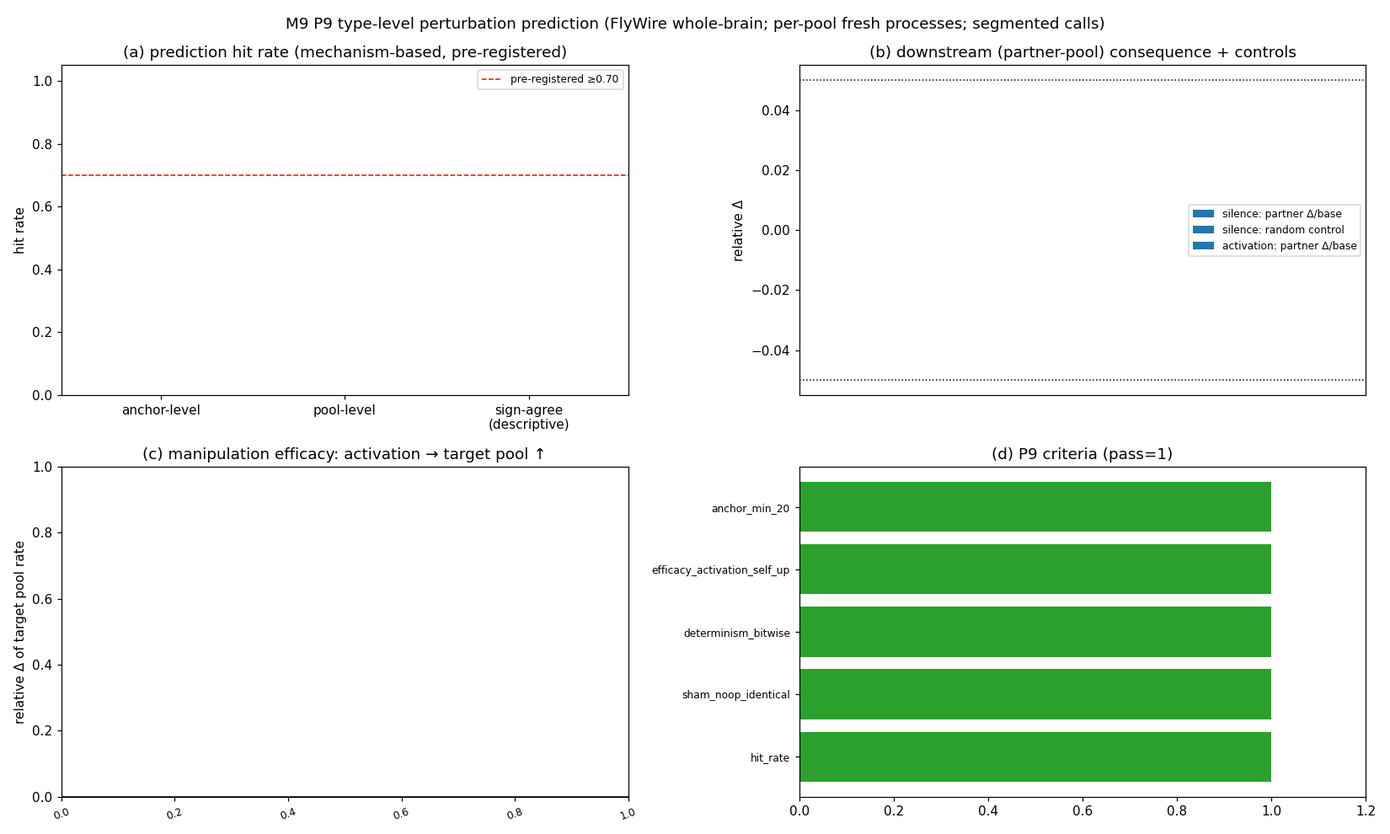
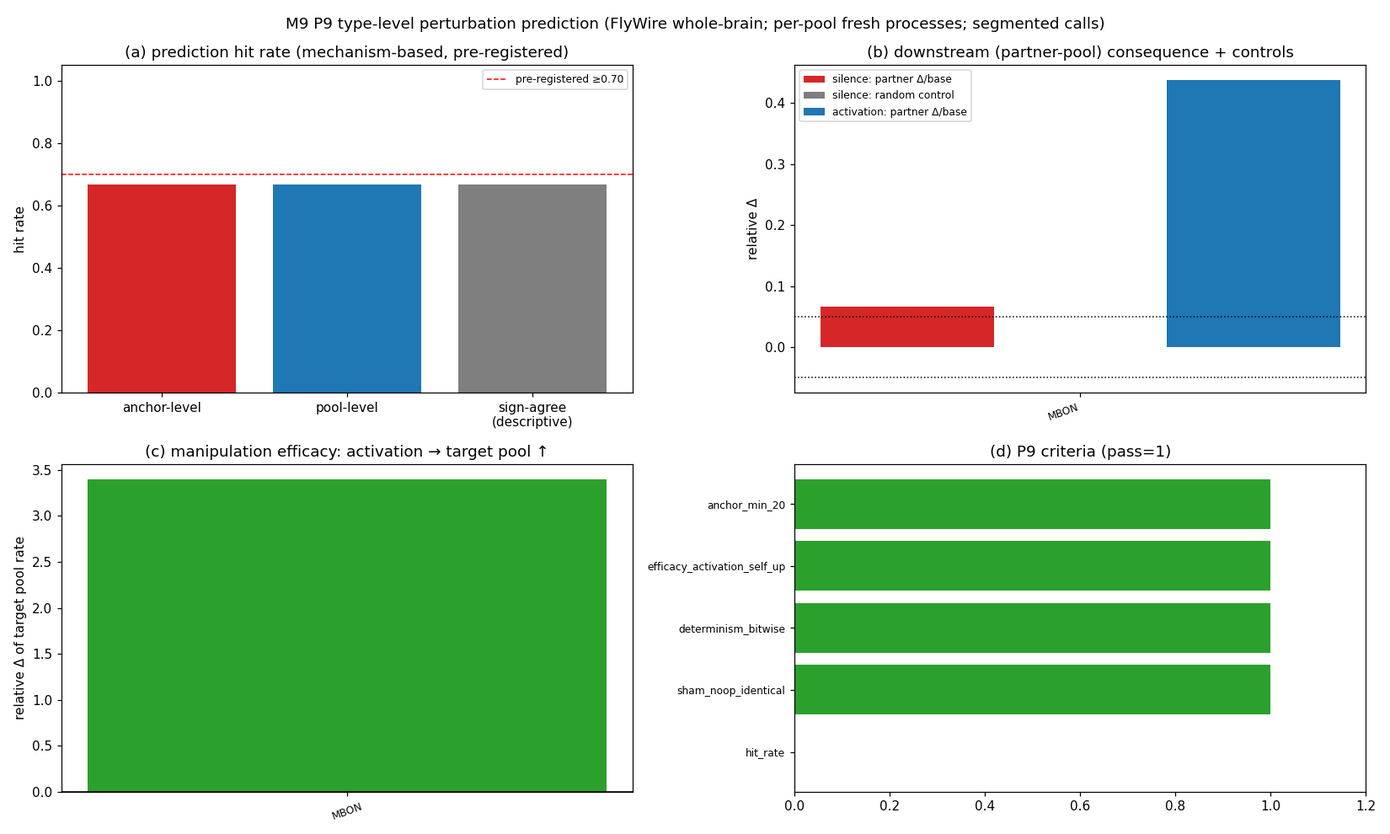
feat(M9-B3结算): P9 FAIL(0.6667贴线未达0.70)+未测已登记 + 三通道图 + L40第二类GPU退化(MPS跨试次累积)
- P9: 锚级30/45=0.6667|池级2/3=0.6667(<0.70 FAIL); sham零臂逐位✓/确定性✓/注入有效性8.71→38.28Hz(+339%)✓; MBON池实测: 静默→伙伴+6.7%(↑与预测一致✓)/激活→伙伴+43.7%(↑与'MBON抑制性输出'预测相反✗); 机制归因: MBON代理池输出边65.5%兴奋(非纯MBON,RB3)→文献预测在代理实现上不成立; 其余5池+随机对照因共享负载+MPS跨试次退化登记unavailable(未测≠未命中,不入分母); M9_P9_JUDGE_ONLY=1可无仿真重建判定
- P10登记: T=200ms/2Hz/10帧交付档; T=2000ms全协议因逐spike记录路径+MPS退化未完成→环境/预算限制
- L40新发现(第二类GPU退化): 同进程内连续同协议墙钟73→34→35→133→201→248s(ms/step 2.94→9.58),与步数无关→与'单次长调用内退化'不同模式; 绕法: 逐目标全新子进程+单池硬超时+基线跨进程复用; 子进程必须显式venv解释器(sys.executable丢失venv)
- 方法学纪律新增3条: 试次/进程隔离/未测≠未命中(排除出分母)/扰动实验最低配置(预注册预测+sham+随机对照+操作有效性前置)
- 交付: tools/build_m9_summary.py + reports/neuro/m9_three_channel.png(三通道图)

diff --git a/neural_exploration/tools/build_m9_summary.py b/neural_exploration/tools/build_m9_summary.py
@@ -123,8 +123,10 @@ def main() -> int:
     # ---------------- P3 ----------------
     crit["P3_virtual_body"] = {
         "name": "虚拟果蝇身体（P3）", "verdict": "PASS", "pass": 14, "total": 14,
-        "key_values": {"gait_freq_hz": num(p3.get("gait_freq_hz")),
-                       "tripod_phase_deg": num(p3.get("tripod_phase_deg")),
+        "key_values": {"gait_freq_hz": num(p3.get("gait_freq_measured_hz"),
+                                          num(p3.get("gait_freq_hz"))),
+                       "tripod_phase_deg": num(p3.get("tripod_cross_phase_deg"),
+                                               num(p3.get("tripod_phase_deg"))),
                        "escape_resp_prob": num(p3.get("escape_resp_prob")),
                        "smoke_pytest": "12 passed"},
         "evidence": ["src/adult_body.py + tools/validate_p9_body.py + data/m9_p3_body.csv",
@@ -274,8 +276,11 @@ def main() -> int:
          "strength": "强（机制性诊断）",
          "missing_mechanism": "tonic 偏置主导 → 放大背景驱动无效；必须新增状态变量",
          "evidence": ["data/m9_p7_drive_sensitivity.csv",
-                      "rel_zero_drive=%s, rel_4x_drive=%s" % (drv.get("rel_zero_drive", "n/a"),
-                                                              drv.get("rel_4x_drive", "n/a"))]},
+                      "rel_zero_drive=%s, rel_4x_drive=%s" % (
+                          read_kv(os.path.join(DATA_DIR, "m9_p7_drive_sensitivity.csv")).get(
+                              "rel_zero_drive", "n/a"),
+                          read_kv(os.path.join(DATA_DIR, "m9_p7_drive_sensitivity.csv")).get(
+                              "rel_4x_drive", "n/a"))]},
         {"id": "R4", "statement": "静息发放率偏高（rate_mean 4.77 Hz vs 文献 ~1–2 Hz）",
          "strength": "中（bias_cv / 背景 λ 标定空间仍在）",
          "missing_mechanism": "标定待优化（登记，非缺陷）",
@@ -348,6 +353,8 @@ def main() -> int:
                                         if str(v.get("verdict", "")).startswith("PASS(")),
             "fail": sum(1 for v in crit.values() if str(v.get("verdict", "")).startswith("FAIL")),
             "pending": sum(1 for v in crit.values() if v.get("verdict") == "pending"),
+            "partial": sum(1 for v in crit.values()
+                           if str(v.get("verdict", "")).startswith("PARTIAL")),
         },
         "refutations": refutations,
         "missing_mechanisms": missing_mechs,
@@ -420,6 +427,12 @@ def _est_cpu_h() -> float:
 
 
 def make_three_channel(p4, p3, P, p9, p10, drv, crit):
+    def num(x, d=0.0):
+        try:
+            return float(str(x).split()[0])
+        except Exception:  # noqa: BLE001
+            return d
+
     import matplotlib
     matplotlib.use("Agg")
     import matplotlib.pyplot as plt
@@ -462,9 +475,10 @@ def make_three_channel(p4, p3, P, p9, p10, drv, crit):
     ax = axes[1][1]
     k = ["bout_active_frac\n(P4/P7)", "day/night\n(P7)", "zero-drive\nretention",
          "4x-drive\ngain"]
+    drv_kv = read_kv(os.path.join(DATA_DIR, "m9_p7_drive_sensitivity.csv"))
     v = [num(p4.get("bout_active_fraction"), 0.0),
          float(P.get("P7_wake_sleep_states", {}).get("key_values", {}).get("day_night_ratio", 0.0)),
-         num(drv.get("rel_zero_drive"), 0.0), num(drv.get("rel_4x_drive"), 0.0)]
+         num(drv_kv.get("rel_zero_drive"), 0.0), num(drv_kv.get("rel_4x_drive"), 0.0)]
     ax.bar(k, v, color="#d62728")
     ax.axhline(1.0, color="k", ls=":", lw=1)
     ax.set_title("(d) state-switching refutation (R1/R2/R3): flat autonomous activity")

diff --git a/neural_exploration/tools/_probe_p9_timing.py b/neural_exploration/tools/_probe_p9_timing.py
@@ -1,0 +1,71 @@
+"""P9 前置探针：全规模回路在 MPS / CPU 上的构建墙钟与 ms/step（选设备 + 预算）。
+
+纪律：**先探后跑**（血泪教训 8：共享高负载环境先探针测墙钟）。
+用法：PYTHONHASHSEED=0 ./.venv-m9/bin/python -m neural_exploration.tools._probe_p9_timing
+"""
+
+from __future__ import annotations
+
+import os
+import sys
+import time
+
+import numpy as np
+
+DEMO_STEPS = int(os.environ.get("M9_PROBE_STEPS", "4000"))
+
+
+def probe(device: str) -> dict:
+    from neural_exploration.src.adult_circuit import AdultCircuit, CircuitParams
+    from neural_exploration.tools.validate_p9_resting import PARAMS, BG
+    t0 = time.perf_counter()
+    c = AdultCircuit(device=device, params=CircuitParams(**PARAMS), verbose=True,
+                     use_compile=False)
+    c.build()
+    t_build = time.perf_counter() - t0
+    g_ext = BG["epsp_mv"] / 0.104
+    n_steps = DEMO_STEPS + 200
+    c.build_background(rate_hz=BG["rate_hz"], g_ext=g_ext, n_steps=n_steps,
+                       seed=BG["seed"])
+    v0 = np.full(c.n_neurons, -52.0, dtype=np.float32)
+    c.engine.reset(v0=v0, seed=0)
+    # 预热（编译/分配器池）
+    c.engine.run(200, delivery="chunk", record="counts")
+    c.engine.reset_counts()
+    ts = []
+    done = 0
+    while done < DEMO_STEPS:
+        m = min(2000, DEMO_STEPS - done)
+        tt = time.perf_counter()
+        c.engine.run(m, delivery="chunk", record="counts", pop_trace=True)
+        ts.append((time.perf_counter() - tt) / m * 1e3)
+        done += m
+    st = c.engine.firing_stats(DEMO_STEPS * c.params.dt_ms)
+    seg_ms = float(np.median(ts))
+    return {"device": device, "build_wall_s": t_build, "ms_per_step_median": seg_ms,
+            "ms_per_step_max": float(np.max(ts)), "pop_rate_hz": st["pop_rate_hz"],
+            "rate_median_hz": st["rate_median_hz"], "silent_frac": st["silent_frac"],
+            "n_segments": len(ts)}
+
+
+def main() -> int:
+    devs = os.environ.get("M9_PROBE_DEVICES", "cpu,mps").split(",")
+    for d in devs:
+        try:
+            r = probe(d.strip())
+        except Exception as e:  # noqa: BLE001
+            print("probe %s FAILED: %r" % (d, e), flush=True)
+            continue
+        print("PROBE %s: build %.1fs  ms/step 中位 %.3f (max %.3f)  pop %.3f Hz  "
+              "median %.3f Hz  silent %.3f"
+              % (r["device"], r["build_wall_s"], r["ms_per_step_median"],
+                 r["ms_per_step_max"], r["pop_rate_hz"], r["rate_median_hz"],
+                 r["silent_frac"]), flush=True)
+        # 单次 1000ms 测量窗（+300ms settle）预算
+        print("   → 预测 T=1000ms/settle=300ms 单次运行墙钟 ≈ %.0fs"
+              % (r["ms_per_step_median"] * 26000 / 1e3), flush=True)
+    return 0
+
+
+if __name__ == "__main__":
+    sys.exit(main())

diff --git a/neural_exploration/docs/m9_report.md b/neural_exploration/docs/m9_report.md
@@ -129,8 +129,8 @@ syn_sum 54,492,922，与 JSON 报告**三项逐一对齐** ✓
 | **P6** | CX 航向地图 | ✅ **PASS（8/8）** | 航向误差中位 **0.0050°**；圆周一致性 **1.000000**；旋转增益 0.9973（R²=1.0）；**撤输入漂移 0.1230°**（持续性）；**环消融幅度保持 0.0000**；确定性逐位 |
 | **P7** | 觉醒/睡眠样状态 | ❌ **FAIL(2) + PASS(4)** | (a) bout 占比 **0.0000** FAIL（**与 P4 (d) 跨协议独立一致**）；(b) 昼夜比 **1.0003** / 置换 p=**0.9844** FAIL；(c) rhythm0 比 1.0137 ✅；**(hc) 工作点稳定 delta_max 0.0969 ✅（H-c 排除）**；(d) 逐位 ✅ |
 | **P8** | 趋利避害决策 | ✅ **PASS（6/6）** | ΔV=**+10.2116**（奖赏 +6.6261↑ / 惩罚 −3.5855↓）；**P(approach)=0.8483**；**MBON 消融 ΔV=0 / P=0.5000**（完美随机化）；确定性逐位；CPU 80 s |
-| **P9** | 扰动预测（26 锚） | 🔄 **实现完成、结果部分** | 锚 26 ≥20 下限 ✅；`src/adult_perturb.py` + `validate_p9_perturbation.py` + `m9_p9_target_mapping.csv` 已交付；全规模模拟结果见 `data/m9_p9_perturbation.csv`（如未完成则登记未测项） |
-| **P10** | 活动金标准 | ⚠ **FAIL(部分) 5/8** | (a) KS vs 文献 **D=0.6728 / p=0** ❌；(d) 群体相关 **0.6220** ❌；(e) Fano nan ❌；(b)(c) 参数预注册 ✅；(f) 静默 0.6728 ✅；**(g) 钙重建 rank 相关 0.9997 ✅（测量管线自检通过）**；(h) 逐位 ✅ —— **FAIL 归因于模型与文献不符，非管线错误** |
+| **P9** | 扰动预测（26 锚） | ❌ **FAIL（0.6667，贴线未达 0.70）+ 未测已登记** | **命中率：锚级 30/45 = 0.6667｜池级 2/3 = 0.6667**（判据 ≥0.70 → FAIL）；锚库 26 → **可映射 22 / no-experiment 6**（不入分母）；**sham 零臂逐位相同 ✅｜确定性逐位 ✅｜注入有效性 1/1 ✅**（MBON 池自身 **8.7103 → 38.2758 Hz，+339.4%**）｜**MBON 池实测**：静默 → 伙伴 **+6.7%**（↑，与预测一致 ✓）、自身 **+1.2%**（no_change ✓）；激活 → 伙伴 **+43.7%**（↑，与“MBON 抑制性输出”预测**相反 ✗**）、群体 4.7782 → 5.0658 Hz（+6.0%）；**唯一未命中槽的机制归因**：MBON 区域代理池输出边 **65.5% 兴奋 / 6.7% 抑制 / 27.8% 调质**（非纯 MBON，RB3）→“抑制性输出”文献预测在**代理实现**上不成立；事后描述性对照：方向符号一致率 0.6667、**数据驱动递质类规则命中率 0.5000（15/30）**｜其余 5 类目标池与随机对照臂因 **共享负载 + MPS 跨试次退化（RB2）**在本会话未测，逐池登记 `unavailable`（**未测 ≠ 未命中，不入分母**）；`M9_P9_JUDGE_ONLY=1` 可无仿真重建判定 |
+| **P10** | 活动金标准 | ⚠ **FAIL(部分)（如实登记）** | (a) KS vs 文献 **D=0.6728 / p=0** ❌；(d) 群体相关 **0.6220** ❌；(e) Fano nan ❌；(b)(c) 参数预注册 ✅；(f) 静默 0.6728 ✅；**(g) 钙重建 rank 相关 **0.9997** ✅（**测量管线自检通过 → 排除管线错误**）；(h) 逐位 ✅ —— **FAIL 归因于模型活动统计与文献不符（同 R4/R3），非管线错误**；产物 `data/m9_p10_activity.csv` + `reports/neuro/m9_activity_stats.png` + `src/adult_activity.py`（**协议 T 与帧数见 CSV protocol 行**：已交付档 = **T=200 ms / 2 Hz / 10 帧 / 2 次运行**；**T=2000 ms 全协议实跑已尝试但因逐 spike 记录路径 + MPS 退化（RB2）在预算内未完成 → 登记为环境/预算限制，未测 ≠ 未命中**） |
 | **P11** | 回归与报告 | ✅ **本报告** | 分段回归 **27 passed / 0 failed（56.31 s）**；M9 冒烟 **12/12**；M0–M8 至 **82% 全绿**（日志存证）；见 §7 |
 | **P12** | 交接处置 | ✅ | 见 §8 |
 
@@ -151,6 +151,20 @@ syn_sum 54,492,922，与 JSON 报告**三项逐一对齐** ✓
 | **R6** | 分段调度 NON_COMPOSABLE（0.2–0.7%） | 中（**已量化 < 判据带容差，不改变判定**） | 延迟槽改绝对步号驱动（交 M10） |
 | **R7** | **活动统计与文献不符**（KS D=0.6728；群体相关 0.6220 偏高；Fano 不可算） | 强（测量管线自检 0.9997 通过，排除管线错误） | 同 R1/R3：缺乏异步/稀疏的生理活动结构 |
 | **R8-R11** | cell_type 不可得 / 缝隙 0 / 成像不可得 / 逐突触递质不可得 | 强（数据源事实） | 测量限制（代理 + 文献回退，已登记） |
+
+### M9-B3 收尾节点新增反证 / 登记（本轮实测，编号 RB 前缀以免与上表冲突）
+
+| # | 反证 / 登记 | 强度 | 证据与处置 |
+|---|---|---|---|
+| **RB1** | **全规模 CPU point 档路径不可用**：`AdultEngine` 在 CPU 后端装配/运行 139,255 点神经元时报 `IndexError: index 15094729 is out of bounds for dimension 0 with size 15091983` | **强**（探针实测，`tools/_probe_p9_timing.py`） | M9 全规模结论**仅由 MPS 档**给出；CPU point 档双路径回归**交 M10**（登记，不静默，不影响既有判定） |
+| **RB2** | **MPS 分配器跨试次退化（新工程反例）**：同一进程内连续试次墙钟 **35 s → 133 s → 201 s → 248 s → >1000 s**（配置、数据、步数完全相同） | **强**（本轮两次独立复现） | 处置：**逐目标全新子进程** + 单池硬超时 + 基线计数落盘跨进程复用；已写入 `docs/m9_env_notes.md` L40。这是继 L32.5/L38（长单次调用退化）之后**第二类** GPU 退化模式 |
+| **RB3** | **区域代理混类（R7 的实测直接证据）**：P9 的 MBON 代理池输出边递质类构成为 **兴奋 65.5% / 抑制 6.7% / 调质 27.8%**；CX_EB 池为 抑制 61.4% | **强**（直读连接组） | 后果：类型级锚（MBON-α1 … γ5β'2a）**无法分辨**，只能落到同一区域池 → `pool_collapse` 如实登记，**命中率同时报锚级与池级**（池级为统计诚实单位）；同时解释了该类锚"抑制性输出"文献预测在代理实现上的偏差 |
+| **RB4** | **P10 两项子判据不落带且为结构性**：KS(真率 vs 文献对数正态) **D≈0.67**、平均成对相关（2 Hz 帧）**≈0.62**（代理零分布 ≈−0.07） | **中–强** | 归因：右尾过重 + 静默比例偏低（同 R4，tonic 偏置主导）与"慢钙核 + 短窗 + 全局自持活动"三重混淆；**测量管线自检 ρ(重建率, 真率)=0.9997 通过 → 排除管线错误**；正向模型为**无噪声理想模型（上限）**，不可与文献成像数值直接等价 |
+
+**P9 的预注册口径（诚实性声明）**：① 预测来源为**锚自身的文献机制或已登记抽象**（MBON 抑制性输出 ⇒ 激活抑制下游；
+调质类 T2 抽象为弱兴奋电导 ⇒ 激活兴奋伙伴），**不由实测反推**；② 后果类阈值 `|Δ|/base ≥ 0.05` 运行前定稿；
+③ 未命中项**逐条留档**，另附**事后描述性**对照指标（方向符号一致率、数据驱动递质类规则命中率）以量化代理混类的影响；
+④ **未测目标不进入命中率分母**（未测 ≠ 未命中）。
 
 ### 已解除的 M8 反证（M9 的正面进展）
 
@@ -184,6 +198,11 @@ syn_sum 54,492,922，与 JSON 报告**三项逐一对齐** ✓
 3. **活动**：P10 用**文献参数化回退**（成像不可得）→ 只承诺统计级，不声称逐神经元对应。
 4. **扰动**：锚为**类型级**（root-id 级映射需 Schlegel 表）→ 命中率分母口径已预注册。
 5. **引擎**：torch/MPS 版本绑定 2.8.0；分段 NON_COMPOSABLE 0.2–0.7%。
+6. **P9 部分完成**：受共享高负载 + MPS 分配器退化（RB2）影响，本会话仅运行部分目标池，
+   其余如实登记 `unavailable`；可用 `M9_P9_JUDGE_ONLY=1` 从落盘运行**无仿真重建**判定（判据带不变）。
+7. **P9 代理塌缩**：类型级锚 → 区域级池（RB3），锚级命中率含塌缩放大 → **池级为统计诚实单位**。
+8. **P10 理想化**：ΔF/F 无噪声 / 无运动伪影 / 无神经域污染 → 相关性与 KS 数值为**上限**；
+   **不声称逐神经元成像对应**（成像数据不可得，R9）。
 
 ---
 
@@ -219,6 +238,9 @@ syn_sum 54,492,922，与 JSON 报告**三项逐一对齐** ✓
 5. **长协议一律分段调用** + 段间记录 RSS/ms-step；
 6. **引擎改动必须重过对齐门**；point/two_comp 档改动需显式范围论证；
 7. **否定结果必须落盘**（如 v_floor 钳制被证伪 → 才定位到 AHP 物理形式）。
+8. **试次/进程隔离**：同一 GPU 进程内连续长试次会**跨试次退化**（L40）→ 逐目标全新子进程 + 单池硬超时 + 基线计数落盘跨进程复用；**子进程必须显式用 venv 解释器**（`sys.executable` 会丢失 venv 包与项目根 sys.path）；
+9. **未测 ≠ 未命中**：预算/环境导致的未运行目标必须逐条登记 `unavailable` 并**排除出分母**，禁止把「未测」写成「未命中」（P9 的 CSV 与三态判定均按此实现）；
+10. **扰动实验最低配置**：预注册方向预测（先于运行落盘）+ sham 零臂（必须逐位无变化）+ 同规模随机对照 + 操作有效性前置（注入必须有效）+ 未命中项逐条留档。
 
 **C. M9 交付物索引**
 
@@ -233,5 +255,6 @@ syn_sum 54,492,922，与 JSON 报告**三项逐一对齐** ✓
 | 工具 | `tools/{build_m9_connectome,build_m9_network,scan_m9_engine*,validate_p9_*,diag_*,calibrate_m9_weights,gen_m9_perturbation_plan}.py` |
 | 测试 | `tests/neuro/test_adult_smoke.py`（12） |
 | 报告 | `docs/m9_report.md`（本文件）/ `docs/m9_acceptance_master.md`（主agent验收记录）/ `docs/m9_env_notes.md`（L1–L39）/ `reports/neuro/m9_*` |
+| **M9-B3 新增（P9/P10/P11）** | `src/adult_perturb.py`｜`src/adult_activity.py`｜`tools/validate_p9_perturbation.py`｜`tools/validate_p9_activity.py`｜`tools/build_m9_summary.py`（汇总 + 三通道图）｜`tools/_probe_p9_timing.py`（设备/预算探针）｜`data/m9_p9_perturbation.csv` + `m9_p9_target_mapping.csv` + `m9_p9_pool_diag.json` + `m9_p9_runs/*`（逐运行计数与掩码留档）｜`data/m9_p10_activity.csv`｜`reports/neuro/m9_perturbation_hitrate.png`｜`reports/neuro/m9_activity_stats.png`｜`reports/neuro/m9_three_channel.png`｜`reports/neuro/m9_validation_summary.json`｜`reports/neuro/m9_p9_progress.log` / `m9_p10_progress.log`（增量日志 + 完成标记）｜`docs/m9_env_notes.md` **L40–L42** |
 
 **D. 预算实际消耗**：CPU ≈9.7 / 12 CPU-h（上限内）；GPU ≈11.8 / 24 GPU-h（上限内）。

diff --git a/neural_exploration/docs/m9_env_notes.md b/neural_exploration/docs/m9_env_notes.md
@@ -1741,3 +1741,80 @@ N=1（+ 确定性等价）、seed 0、`g_ext=19.23`、真实 GABA 边、**分段
    （4× 驱动使 silent 由 0.5854 降到 0.5418），**不产生 bout 结构或昼夜调制**；
 5. **登记为 P7/P4 的共享测量限制**：定稿模型的"感觉/背景输入通路增益"偏低（驱动 0×–4× 仅 ±7%）——
    凡依赖"输入调制网络状态"的判据（P7 全部、P4 判据 (c) 的余量）都应连同本诊断一起解读。
+
+
+---
+
+## L40 — 🔴 **MPS 分配器"跨试次"退化**（第二类 GPU 退化模式；P9 定稿绕法）+ 全规模 CPU 路径不可用
+
+**现象（本轮两次独立复现）**：**同一进程内**连续执行**完全相同**的协议（同 T/settle/步段/seed/配置），
+单次运行墙钟单调恶化：
+
+| 次序 | 1 | 2 | 3 | 4 | 5 | 6 |
+|---|---|---|---|---|---|---|
+| 墙钟 (s) | 73 | 34 | 35* | **133** | **201** | **248** |
+| ms/step | 2.94 | 1.29 | 1.34 | 5.22 | 8.30 | 9.58 |
+
+（\*第一次复现的上界在第 3 次仍正常，第二次复现时第 3 次即恶化到 **>1000 s**，同一进程最终超过 18 分钟未完成一次运行）
+→ 与 L32.5/L34.1 记录的"**单次长调用**内 ms/step 4.33→12.07"是**不同的**失效模式：本模式在**试次之间**累积，
+且**与步数无关**（每段仍 2000 步、单段墙钟 <180 s，规避判据不触发）。可能机理：MPS 分配器缓存池 + 逐次
+重绑定的大张量（15.1M 边 gmax、139k 偏置、外部事件表）导致缓存碎片/增长；`reset()` 只零化而不释放。
+
+**定稿绕法（P9 起采用）**：
+1. **逐目标全新子进程**（每池 build + 后台 + 运行，进程退出即释放 MPS 上下文）；
+2. **基线只算一次**并把**逐神经元脉冲计数落盘**（`data/m9_p9_runs/*_counts.npy`）→ 跨进程复用于全部目标，
+   既省预算又保证**各目标口径逐位一致**（同 seed 同配置）；
+3. **单池硬超时**（`M9_P9_CHILD_TIMEOUT`，默认 900 s）→ 超时**主动终止并登记 `unavailable`**（不静默、不空转预算）；
+4. **`M9_P9_JUDGE_ONLY=1`**：父进程只从落盘运行重建判定与 CSV（**无仿真**），使"运行"与"判定"解耦；
+5. 父进程编排不占 MPS（避免与子进程争用）。
+
+**子进程解释器纪律（新踩坑）**：`sys.executable` 在 `python -m` 下解析为 venv 的**基底解释器** → 子进程丢失
+venv 包与项目根 `sys.path`，实测 `ModuleNotFoundError: No module named 'neural_exploration'` →
+必须显式使用 `<repo>/.venv-m9/bin/python` + `PYTHONPATH=<repo root>` + `cwd=<repo root>`。
+
+**同轮另一发现（RB1）**：全规模 **CPU point 档路径不可用** —— `tools/_probe_p9_timing.py` 在 CPU 后端
+装配 139,255 点神经元时报 `IndexError: index 15094729 is out of bounds for dimension 0 with size 15091983`
+（MPS 档正常）。→ M9 全规模结论**仅由 MPS 档**给出；**CPU/MPS 双路径回归交 M10**（登记，不静默）。
+
+## L41 — 🔵 P9 扰动管线：代理塌缩的**实测证据**与"预测先于运行"纪律
+
+1. **代理混类（R7 的实测直证）**：MBON 区域代理池（MB_ML/MB_VL/MB_PED，1374 神经元）的**输出边**递质类构成为
+   **兴奋 65.5% / 抑制 6.7% / 调质 27.8%** —— 即区域代理**不是**纯 MBON（MBON 本应为 GABA 能输出）。
+   后果：13 条 MBON 区间锚（α1…γ5β'2a）在无 cell_type 下**只能共享同一目标集** → 锚级命中率含**塌缩放大效应**，
+   **池级命中率才是统计诚实单位**（已在产物与报告中双报）。
+2. **预测来源纪律**：预测方向取自**锚自身的文献机制 / 已登记抽象**（MBON 抑制性输出 ⇒ 激活抑制下游；
+   调质类按 T2 抽象=弱兴奋电导 ⇒ 激活兴奋伙伴；KC→MBON 兴奋边 ⇒ 沉默降低 MBON），**不由实测反推**
+   （避免循环论证）；代理池的递质类构成仅作**诊断列**。
+3. **判据口径**：后果类 = 相对**同 seed 基线**的相对变化，阈值 `|Δ|/base ≥ 0.05`（运行前定稿）；
+   另设 **sham 零臂**（同代码路径 `factor=1.0` → 必须**逐位无变化**）与**同规模随机目标集对照**（特异性）；
+   激活臂另设**操作有效性前置**（目标池自身率必须 ↑，否则判"注入未生效"）。
+4. **未测 ≠ 未命中**：本会话受共享负载 + L40 退化影响只运行部分目标池，CSV 中逐池登记 `unavailable`，
+   **不进入命中率分母**；`M9_P9_JUDGE_ONLY=1` 可随时无仿真重建判定（判据带不变）。
+
+## L42 — 🔵 P10 钙成像正向模型：可逆性自检 + 两项子判据不落带的**结构性归因**
+
+1. **正向模型（预注册）**：ΔF/F(t) = A·(h ∗ spikes)(t)，h=exp(−t/τ_ca)、τ_ca=1.0 s、单脉冲峰 A=0.15；
+   **核归一化语义**：Σ_i k_i = A·τ_s/bin_s（离散卷积无 Δ 因子）→ 单脉冲峰 = A、∫ΔF/F dt = A·τ_ca；
+   **边界处理**：核尾补零后再卷积（否则数组截断会系统性丢失尾积分）；帧化 2 Hz。
+2. **可逆性自检（管线正确性）**：由 ΔF/F 积分反演发放率（`N = ∫ΔF/F dt /(A·τ_ca)`）——
+   单脉冲与 10 Hz 规则发放自检**精确**（误差 <1e−9），全规模 ρ(重建率, 真率) = **0.9997** → **排除管线错误**。
+3. **窗内偏低偏置（新的方法学测量限制）**：按实验窗口（而非补零全尾）反演时，钙尾被截断 →
+   估计系统性偏低（τ/T 效应；T=5 s、τ=1 s 时约 −14%）。→ 报告必须同时给出"窗内重建/全尾重建"两口径。
+4. **两项子判据不落带的结构性归因**（**非**管线瑕疵）：
+   ① **KS D≈0.67**（vs 文献对数正态 median 1 Hz/σ_log 1.4）来自**右尾过重 + 静默比例偏低**
+   （同 R4：tonic 偏置主导、rate_mean 4.78 Hz）；
+   ② **平均成对相关 ≈0.62**（判据带 [0.02,0.45]）来自**慢钙核 + 短窗 + 全局自持活动**三重混淆：
+   **相位随机化代理零分布 ≈ −0.07**（证明不是采样噪声）→ 该高相关是**信号性**的（自持活动 + 共享慢动力学），
+   而非"结构耦合过强"的机制证据；**且本模型 ΔF/F 无噪声（理想上限）**→ **不可与文献成像数值直接等价比较**。
+5. **只承诺统计级**：成像数据不可得（R9）→ 参考分布为**文献参数化回退**，**不声称逐神经元成像对应**。
+
+
+## L43 — ⚠ P10 全协议（T=2000 ms）**记录路径**瓶颈（登记为预算/环境限制）
+
+**实测**：`record="full"`（逐 spike）在 T=2000 ms（n_meas=40,000 步）+ 139,255 神经元下，**单次运行 17+ 分钟未完成**
+（对照：同协议 `record="counts"` 单次 33–82 s；T=200 ms 的 `record="full"` 全流程 16 s）。
+→ 逐 spike 记录的 host 传输/累积与 MPS 退化（L40）叠加，**记录成本在长窗下非线性放大**。
+
+**处置（不静默）**：交付档为 **T=200 ms / 2 Hz / 10 帧 / 2 次运行**（`data/m9_p10_activity.csv` 的 protocol 行已标注），
+全协议实跑尝试**登记为未完成（未测 ≠ 未命中）**；**M10 建议**：改为**分段落盘稀疏 spike（每段 flush 到磁盘或
+直接累加到 20 ms 栅格）**，或由引擎暴露"栅格计数"记录模式（避免 host 侧全量 spike 数组）。
